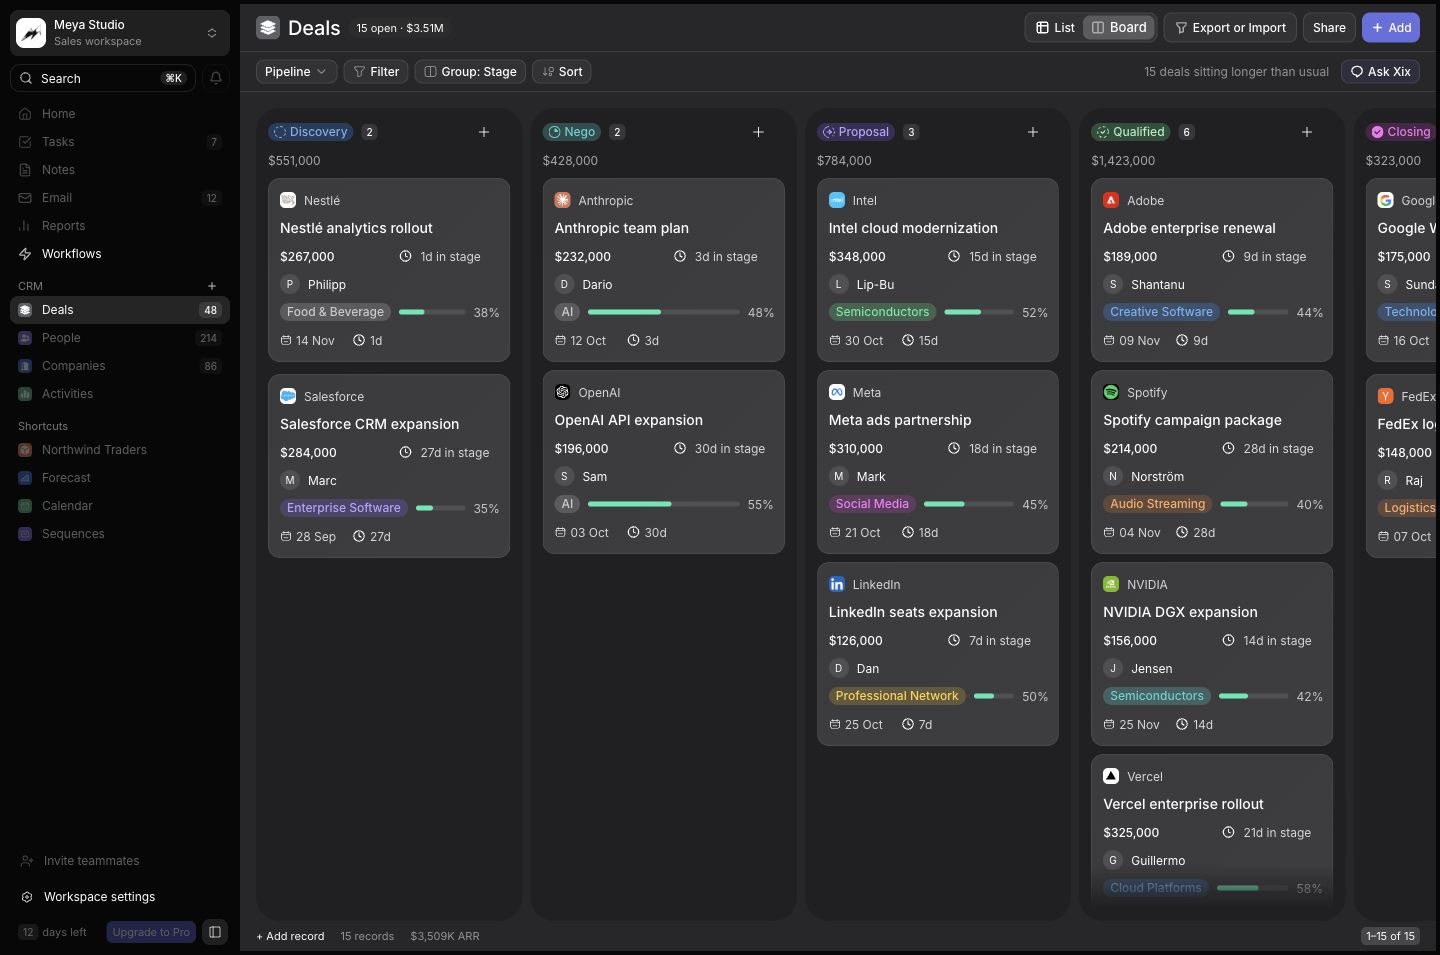
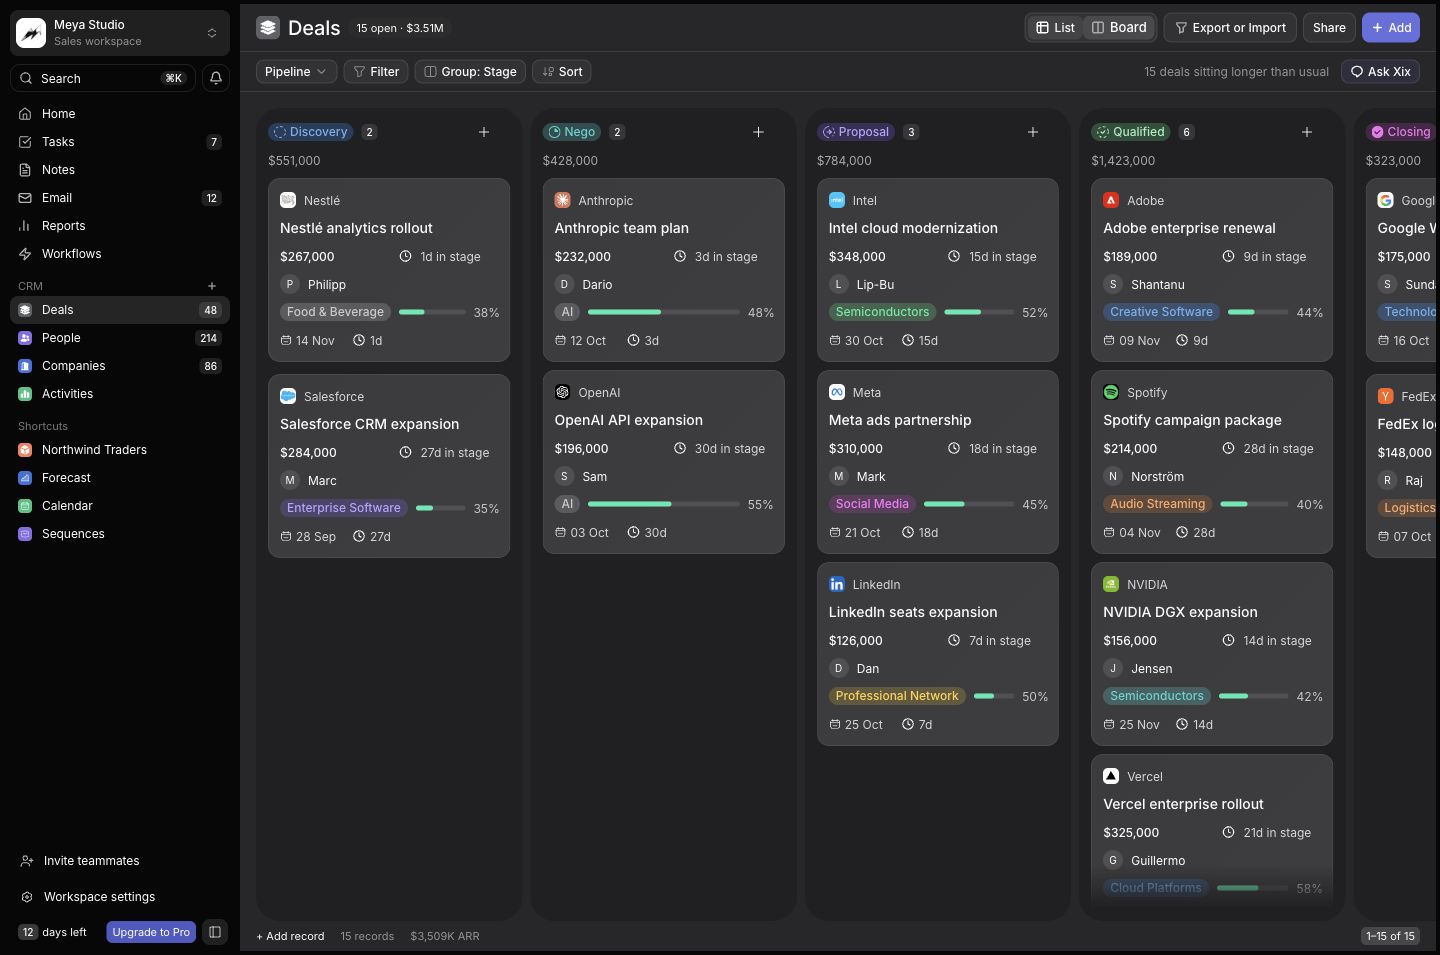
fix: preserve sidebar appearance with silent unavailable actions

diff --git a/src/components/Sidebar.tsx b/src/components/Sidebar.tsx
@@ -42,13 +42,11 @@ export default function Sidebar({
       <button
         key={label}
         aria-label={label}
-        disabled={label !== "Deals" && label !== "Workflows"}
+        aria-disabled={label !== "Deals" && label !== "Workflows"}
         title={
-          label !== "Deals" && label !== "Workflows"
-            ? `${label} — Not available yet`
-            : collapsed
-              ? label
-              : undefined
+          collapsed && (label === "Deals" || label === "Workflows")
+            ? label
+            : undefined
         }
         className={
           "nav-item " +
@@ -56,12 +54,12 @@ export default function Sidebar({
             ? "selected"
             : "")
         }
-        onClick={() =>
+        onClick={
           label === "Deals"
-            ? onNavigate("list")
+            ? () => onNavigate("list")
             : label === "Workflows"
-              ? onNavigate("workflow")
-              : onPanel(label)
+              ? () => onNavigate("workflow")
+              : undefined
         }
       >
         <span
@@ -119,8 +117,7 @@ export default function Sidebar({
             </button>
             <button
               className="notification"
-              disabled
-              title="Notifications — Not available yet"
+              aria-disabled="true"
               aria-label="Notifications"
             >
               <Icon src={A("imgBell")} />
@@ -132,8 +129,7 @@ export default function Sidebar({
           {collapsed && (
             <button
               className="nav-item"
-              disabled
-              title="Notifications — Not available yet"
+              aria-disabled="true"
               aria-label="Notifications"
             >
               <Icon src={A("imgBell")} />
@@ -166,9 +162,8 @@ export default function Sidebar({
       <div className="sidebar-bottom">
         <button
           className="nav-item"
-          disabled
+          aria-disabled="true"
           aria-label="Invite teammates"
-          title="Invite teammates — Not available yet"
         >
           <Icon src={A("imgUserPlus")} />
           {!collapsed && <span>Invite teammates</span>}
@@ -184,11 +179,7 @@ export default function Sidebar({
         </button>
         <div className="trial-row">
           {!collapsed && (
-            <button
-              className="trial"
-              disabled
-              title="Upgrade to Pro — Not available yet"
-            >
+            <button className="trial" aria-disabled="true">
               <span className="count">12</span>
               <span>days left</span>
               <span className="upgrade">Upgrade to Pro</span>

diff --git a/src/styles.css b/src/styles.css
@@ -61,7 +61,7 @@ button {
     background-color 120ms ease,
     border-color 120ms ease;
 }
-button:active:not(:disabled) {
+button:active:not(:disabled):not([aria-disabled="true"]) {
   transform: scale(0.96);
 }
 a {
@@ -1814,7 +1814,7 @@ kbd {
 @media (hover: hover) {
   .button:not(.primary):not(.danger):hover,
   .toolbar-button:hover,
-  .nav-item:not(:disabled):hover,
+  .nav-item:not(:disabled):not([aria-disabled="true"]):hover,
   .search-button:hover,
   .icon-button:hover,
   .menu-item:hover,
@@ -2123,6 +2123,7 @@ body {
 .stage-badge.pink {
   color: #f476ee;
 }
-.sidebar button:disabled {
-  cursor: not-allowed;
+.sidebar button[aria-disabled="true"] {
+  opacity: 1;
+  cursor: default;
 }

diff --git a/README.md b/README.md
@@ -77,7 +77,7 @@ React 19 · TypeScript · Vite · Plain CSS · Inter · [Meya Icons](https://git
 This is a **frontend starter**, not a hosted CRM service. It includes fictional pipeline values and sample people/company labels from the design. These do not represent real business relationships or financial records.
 
 - Data is local to one browser. Sharing a URL does not share local edits.
-- Authentication, team collaboration, email delivery, billing, AI, enrichment, and Slack are not connected. Unavailable navigation destinations are disabled. Deals, Workflows, search, and local workspace settings remain available.
+- Authentication, team collaboration, email delivery, billing, AI, enrichment, and Slack are not connected. Unavailable navigation destinations keep their original appearance but do nothing when activated. Deals, Workflows, search, and local workspace settings remain available.
 - The workflow is a fixed connected template with editable names and a local simulation. Arbitrary node creation/deletion and an automation execution backend are not included.
 - The trial/Pro labels and sidebar totals are retained from the Figma composition. The demo never expires or charges money.
 - Record details, probability bars, totals, and pagination use actual demo data, resolving inconsistent sample values in the source frames.

diff --git a/docs/design-notes.md b/docs/design-notes.md
@@ -59,7 +59,7 @@ The source's small targets and subdued workflow helper text need a separate acce
 
 ## Updated stage icons
 
-The latest table reference (`639:73154`) supplies the status icons used in group headings and stage badges. The 12 px negotiation, qualified, and closing SVGs are local assets; Discovery retains the source dashed-circle construction and Proposal reuses its original export. The deal briefcase uses the supplied 10 px export in its 16 px purple tile. Counts and stage assignments continue to follow saved deal data. Native disabled buttons prevent unavailable pages from opening by pointer or keyboard.
+The latest table reference (`639:73154`) supplies the status icons used in group headings and stage badges. The 12 px negotiation, qualified, and closing SVGs are local assets; Discovery retains the source dashed-circle construction and Proposal reuses its original export. The deal briefcase uses the supplied 10 px export in its 16 px purple tile. Counts and stage assignments continue to follow saved deal data. Unavailable sidebar entries use aria-disabled and have no activation handler. They keep their original appearance and show no modal, toast, or unavailable tooltip when clicked or activated with the keyboard.
 
 ## Updated outer corners
 
